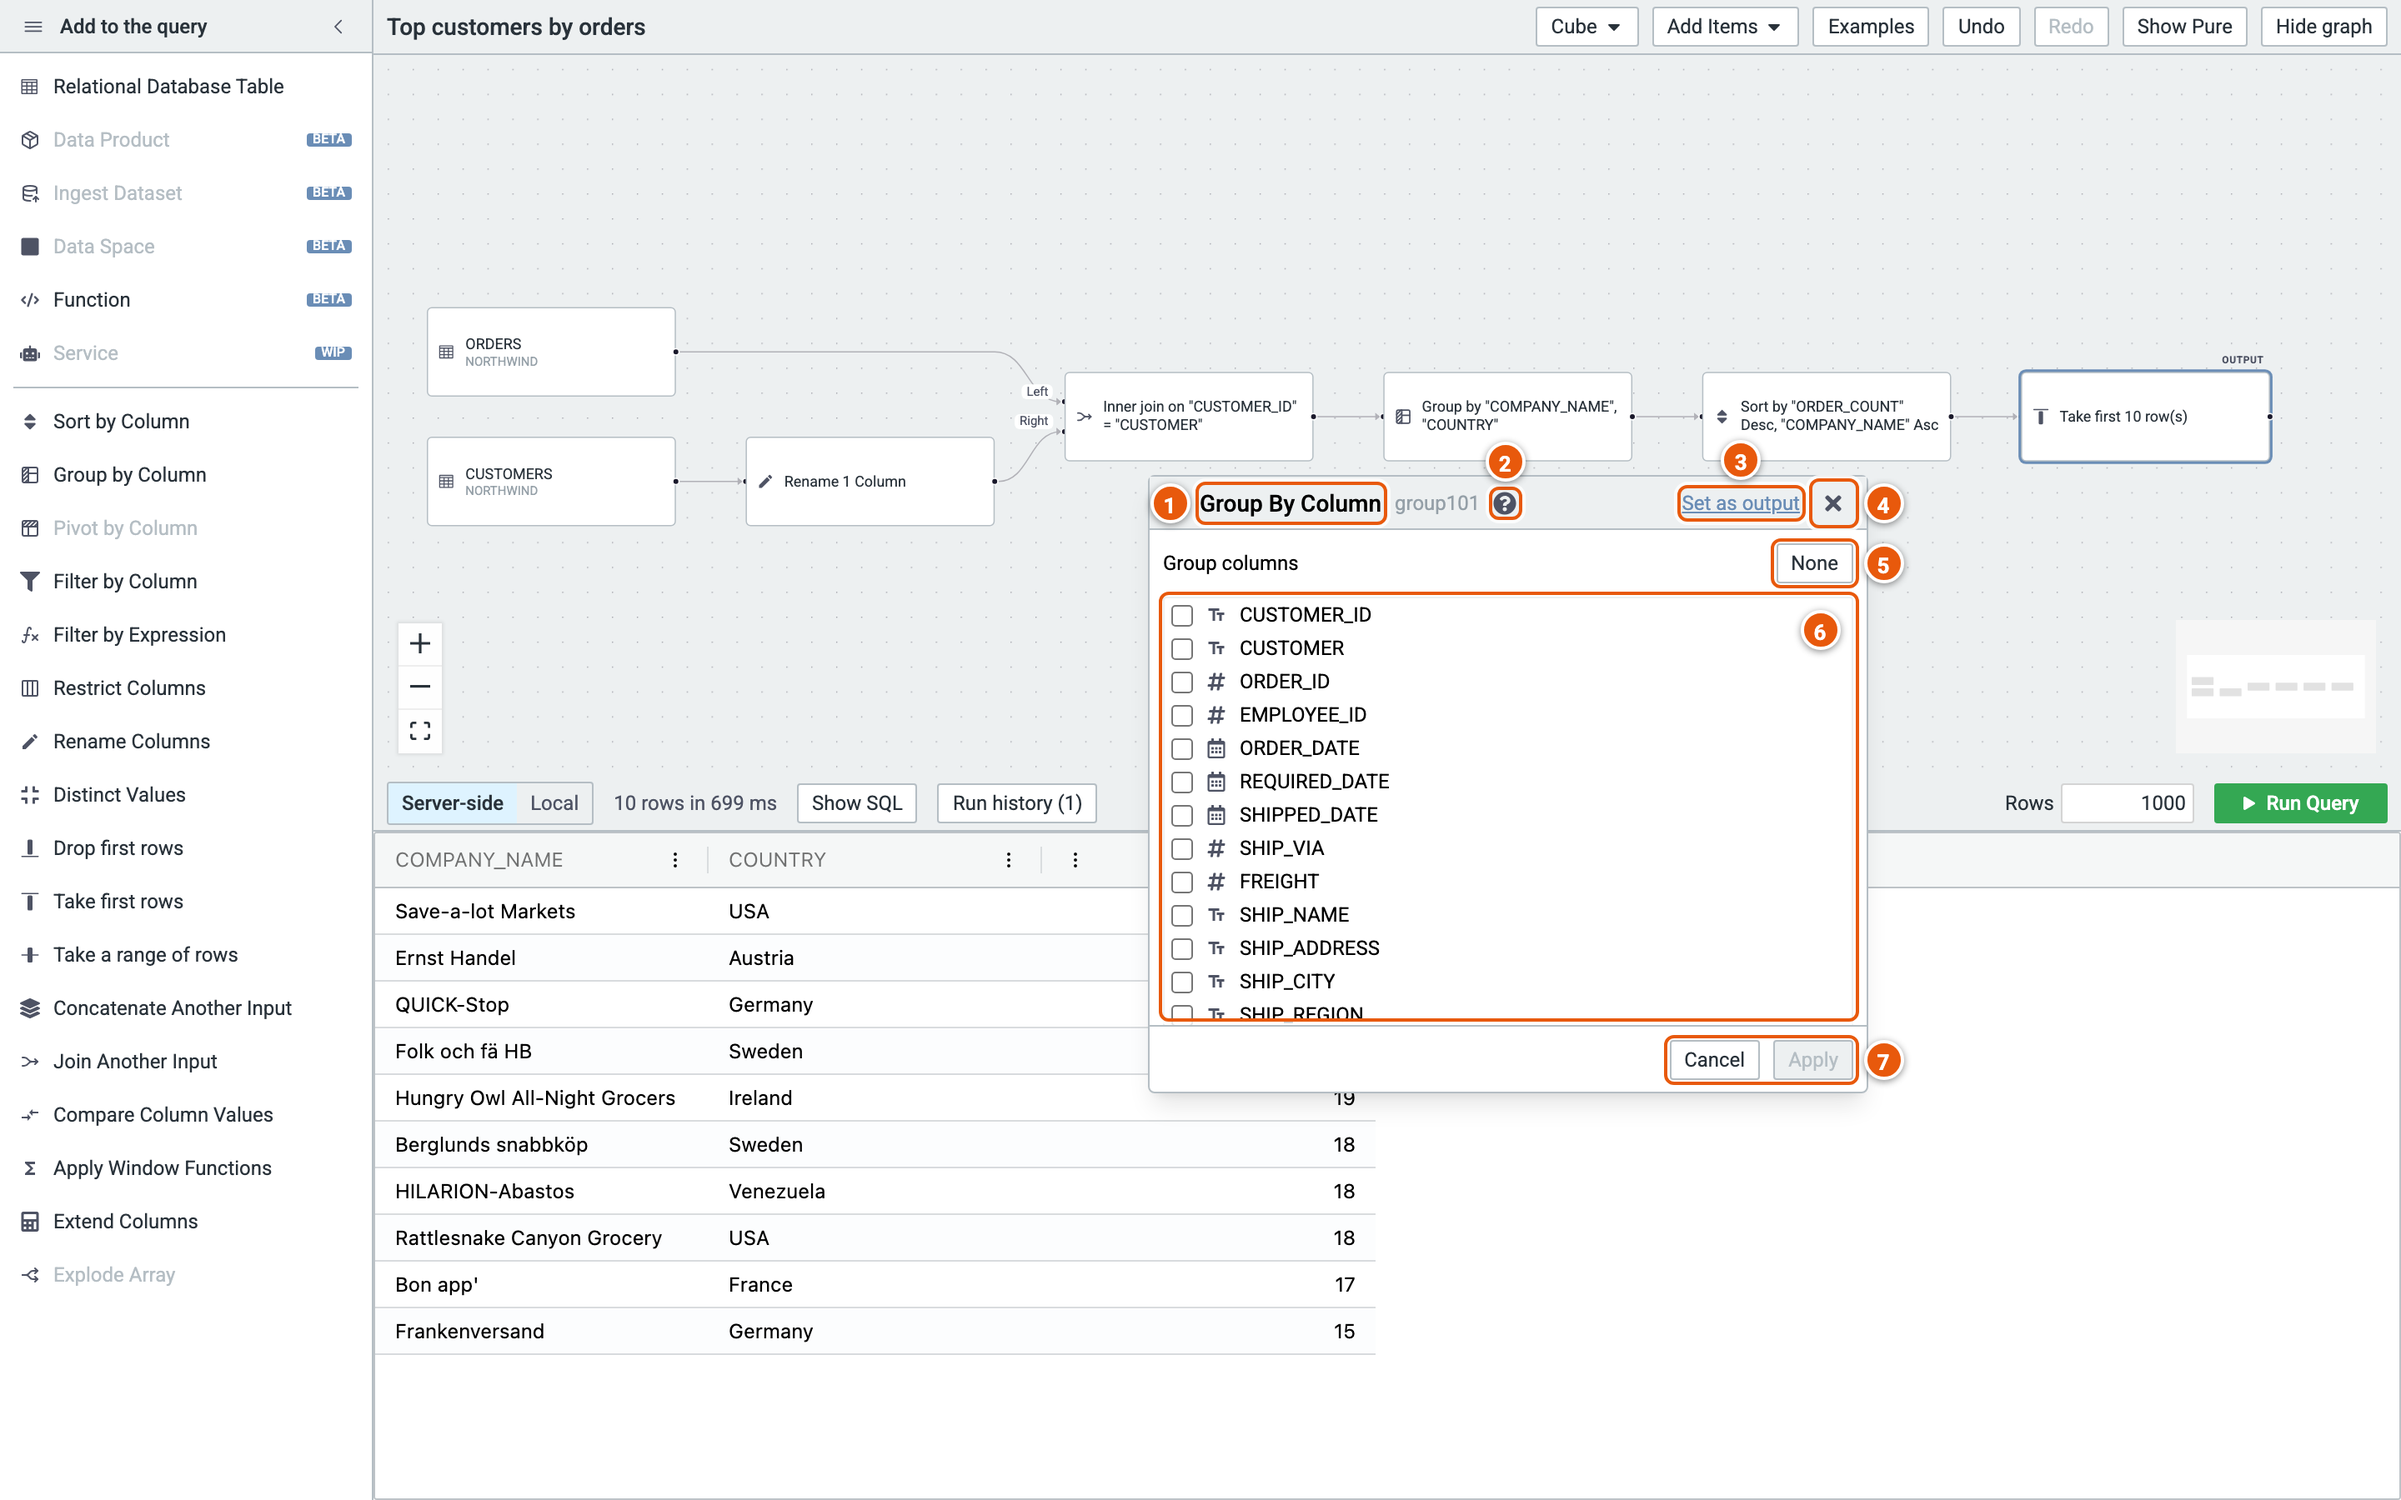
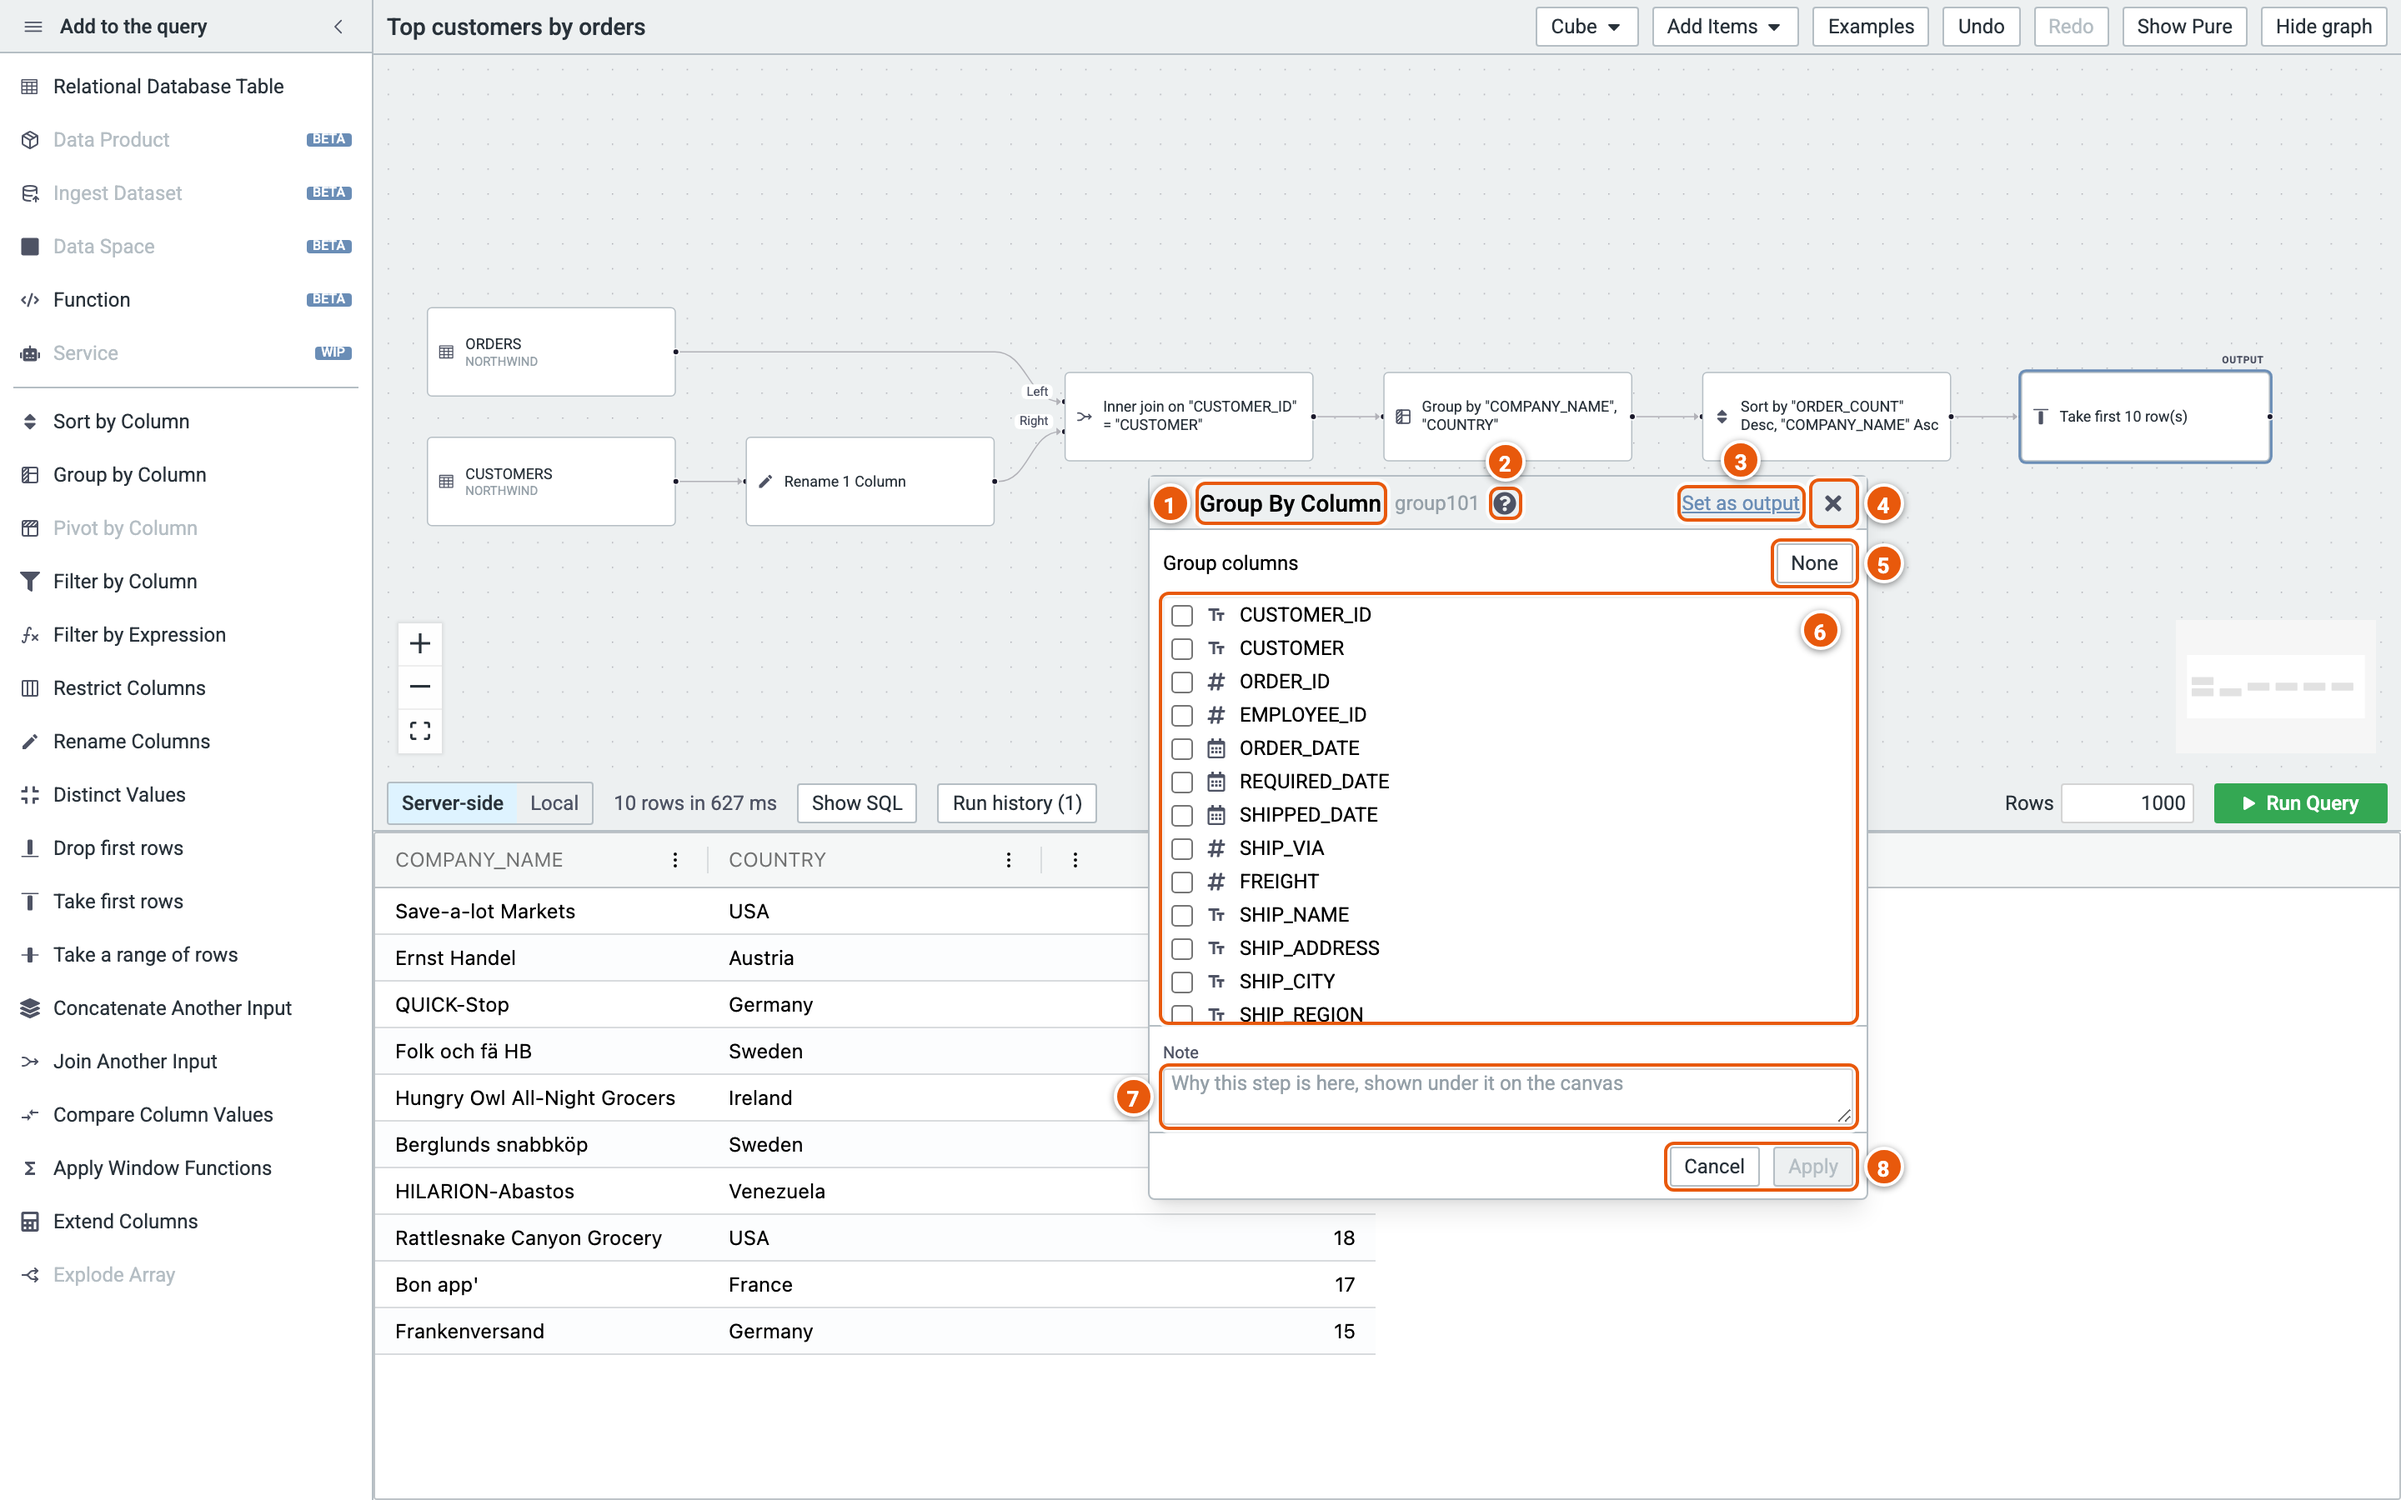
docs(cube): notes in the user guide, with images made by a script
The editor page's Notes section, with the step's menu (Add Note…) and
two notes on the graph, one shown whole on hover; the step editor's image
gains its Note field (PLAN §11.31).

Changed region(s): [[0.4688, 0.6533, 0.8125, 0.8089]]

diff --git a/packages/legend-application-analytics-e2e/src/user-guide/CubeNotes.screenshots.ts b/packages/legend-application-analytics-e2e/src/user-guide/CubeNotes.screenshots.ts
@@ -1,0 +1,103 @@
+/**
+ * Copyright (c) 2026-present, Goldman Sachs
+ *
+ * Licensed under the Apache License, Version 2.0 (the "License");
+ * you may not use this file except in compliance with the License.
+ * You may obtain a copy of the License at
+ *
+ *     http://www.apache.org/licenses/LICENSE-2.0
+ *
+ * Unless required by applicable law or agreed to in writing, software
+ * distributed under the License is distributed on an "AS IS" BASIS,
+ * WITHOUT WARRANTIES OR CONDITIONS OF ANY KIND, either express or implied.
+ * See the License for the specific language governing permissions and
+ * limitations under the License.
+ */
+
+import { join } from 'node:path';
+import { expect, type Page, test } from '@playwright/test';
+import {
+  clearCallouts,
+  CUBE_GUIDE_IMAGES,
+  markCallouts,
+  openCubeExample,
+  saveRegion,
+} from './UserGuideCallouts.js';
+
+// The images of the Notes part of docs/user-guide/cube/editor-overview.md:
+// each callout's number is the one the page explains it under, so a change
+// here changes the page too. The notes are written as a reader would, from
+// the steps' menus, on the Trades example that adds up notional by desk.
+
+const step = (page: Page, text: string) =>
+  page.getByTestId('legend-cube__canvas-node').filter({ hasText: text });
+
+/** The note under a step, in the step's React Flow node */
+const noteOf = (page: Page, text: string) =>
+  page
+    .locator('.react-flow__node')
+    .filter({ has: step(page, text) })
+    .getByTestId('legend-cube__canvas-step-note');
+
+/**
+ * Opens a step's editor at its Note field, from its menu's Add Note…, writes
+ * the note, and closes the editor, which stores it
+ */
+const writeNote = async (page: Page, text: string, note: string) => {
+  await step(page, text).click({ button: 'right' });
+  await page
+    .getByRole('menu')
+    .getByRole('button', { name: 'Add Note…', exact: true })
+    .click();
+  const field = page.getByTestId('legend-cube__step-note-field');
+  await expect(field).toBeFocused();
+  await field.fill(note);
+  await page.keyboard.press('Escape');
+  await expect(page.getByTestId('legend-cube__node-editor')).toBeHidden();
+};
+
+test('Legend Cube: notes', async ({ page }) => {
+  await openCubeExample(page, 'Notional by desk and asset class');
+
+  // a step's menu: Add Note…, among the step's actions
+  await step(page, 'Sort').click({ button: 'right' });
+  const menu = page.getByRole('menu');
+  const menuButton = (name: string) =>
+    menu.getByRole('button', { name, exact: true });
+  // the step's actions, at the end of a menu taller than the window
+  await menuButton('Swap Inputs').scrollIntoViewIfNeeded();
+  await page.mouse.move(1300, 120);
+  await markCallouts(page, [
+    { n: 1, targets: [menuButton('Add Note…')], at: 'left' },
+  ]);
+  await saveRegion(page, join(CUBE_GUIDE_IMAGES, 'notes-menu.png'), [
+    menuButton('Set as output'),
+    menuButton('Swap Inputs'),
+  ]);
+  await clearCallouts(page);
+  await page.keyboard.press('Escape');
+  await expect(menu).toBeHidden();
+
+  // two notes; the long one shown whole on hover
+  await writeNote(
+    page,
+    'Rename 1 Column',
+    'So the second join can tell the instrument’s ID from the ID of the desk joined before it',
+  );
+  await writeNote(page, 'Group by', 'For the weekly desk review');
+  await noteOf(page, 'Rename 1 Column').hover();
+  const tooltip = page.getByRole('tooltip');
+  await tooltip.waitFor();
+  await markCallouts(page, [
+    { n: 2, targets: [noteOf(page, 'Group by')], at: 'below' },
+    { n: 3, targets: [tooltip], at: 'right' },
+  ]);
+  // the canvas alone: its callouts are inside it
+  await saveRegion(
+    page,
+    join(CUBE_GUIDE_IMAGES, 'notes.png'),
+    [page.getByTestId('legend-cube__canvas')],
+    0,
+  );
+  await clearCallouts(page);
+});

diff --git a/packages/legend-application-analytics-e2e/src/user-guide/CubeEditorOverview.screenshots.ts b/packages/legend-application-analytics-e2e/src/user-guide/CubeEditorOverview.screenshots.ts
@@ -134,10 +134,15 @@ test('Legend Cube: the editor overview', async ({ page }) => {
       n: 6,
       targets: [editor.getByRole('list', { name: 'Group columns' })],
       at: 'inside-right',
-      cutAbove: editorButton('Cancel'),
+      cutAbove: editor.getByText('Note', { exact: true }),
     },
     {
       n: 7,
+      targets: [editor.getByTestId('legend-cube__step-note-field')],
+      at: 'left',
+    },
+    {
+      n: 8,
       targets: [editorButton('Cancel'), editorButton('Apply')],
       at: 'right',
     },

diff --git a/docs/user-guide/cube/editor-overview.md b/docs/user-guide/cube/editor-overview.md
@@ -67,7 +67,8 @@ Click a step on the graph to open its editor. This is the Group step's:
 4. **Close** the editor.
 5. **None**: untick every group column (one row for all the rows).
 6. The columns to group by.
-7. **Cancel** the changes, or **Apply** them to the cube.
+7. **Note**: why the step is there. It shows under the step on the graph (see [Notes](#notes)).
+8. **Cancel** the changes, or **Apply** them to the cube.
 
 Where an editor lists columns, each shows its type as an icon: **#** a number, **Tт** text, a calendar a date or a date
 and time, a clock a time, a toggle true or false, a list an enumeration, a tree JSON. Point at the icon for the type in
@@ -106,3 +107,29 @@ A container is one block of steps linked to one another, so all of one tree, and
 - Removing a step takes it out. A container left with no step goes away.
 
 Each change to a container is one undo step.
+
+## Notes
+
+A note says why a step is there: its label already says what it does. A note only changes how the graph looks: the
+cube runs the same, and its rows stay as they are. The cube saves its notes, so export and import keep them.
+
+To write one, right-click a step:
+
+[![A step's menu, with Add Note…](./images/notes-menu.png)](./images/notes-menu.png)
+
+1. **Add Note…** opens the step's editor at its **Note** field (7 in [A step's editor](#a-steps-editor)). Write the
+   note, then **Apply**, or close the editor. An editor with nothing else to set, such as a table's, has no Apply:
+   closing it stores the note. A step with a note has **Edit Note…** instead.
+
+[![Two notes on the graph, one shown whole](./images/notes.png)](./images/notes.png)
+
+2. **A note**: one line under its step, in italics.
+3. **Point at a note** to read all of it. Click it to edit it.
+
+A note is plain text, up to 500 characters. To take one away, clear it in the step's editor. A note follows its step:
+
+- **Copy** and **Paste**, and **Duplicate**, copy a step's note with it.
+- Removing a step removes its note.
+- A folded container hides its steps' notes until it is opened.
+
+Each change to a note is one undo step. Show Pure leaves notes out: they aren't part of the query.

diff --git a/docs/wip/legend-cube/PLAN.md b/docs/wip/legend-cube/PLAN.md
@@ -5985,10 +5985,10 @@ frame takes in its steps' notes.
 | Step | What                                                                                                   | Status |
 | ---- | ------------------------------------------------------------------------------------------------------ | ------ |
 | N.1  | This section; the changeset                                                                            | ✅     |
-| N.2  | Core: `meta.notes` in the spec and the rules (`StepNote.ts`), with tests                               |        |
-| N.3  | The editor: a note's undo step, pruning, copy, paste and duplicate, the Note field; tests              |        |
-| N.4  | The canvas: the line under the step, the layout's room, the frames, Add Note… in the menu; jsdom tests |        |
-| N.5  | The user guide: a section and its image                                                                |        |
+| N.2  | Core: `meta.notes` in the spec and the rules (`StepNote.ts`), with tests                               | ✅     |
+| N.3  | The editor: a note's undo step, pruning, copy, paste and duplicate, the Note field; tests              | ✅     |
+| N.4  | The canvas: the line under the step, the layout's room, the frames, Add Note… in the menu; jsdom tests | ✅     |
+| N.5  | The user guide: a section and its images; the step editor's image with its Note field                  | ✅     |
 | N.6  | Checks: every suite that reads the builder, lint, the browser                                          |        |
 | N.7  | Demo video                                                                                             |        |
 
